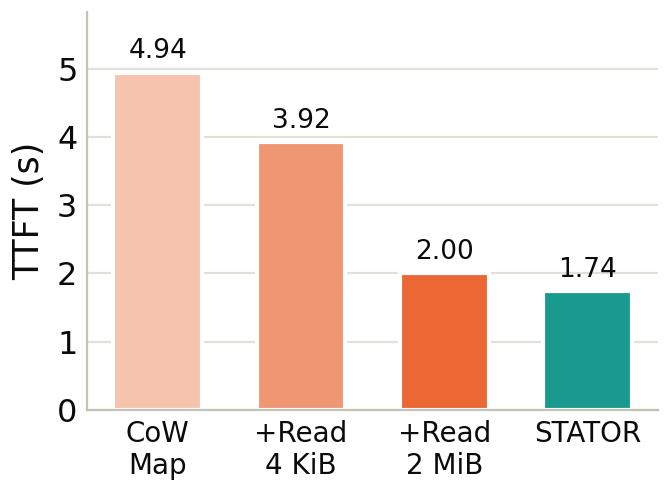
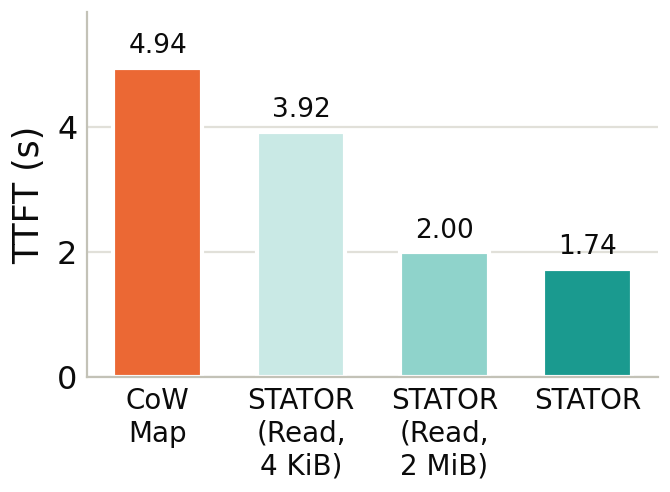
Copy-on-write figure as an ablation of STATOR
The baseline bar is the mapping as the kernel provides it; the bars with the
CPU read pass are labelled STATOR (Read, page size) in tints of its colour.

diff --git a/figures/make_paper_figures.py b/figures/make_paper_figures.py
@@ -39,6 +39,7 @@ DEMAND_LIGHT = "#b9cfe9"
 DEVICE_LIGHT = "#c9bdf0"   # violet (DEVICE) is the third entry
 COPY_LIGHT = "#b7b5af"
 COPY_PALE = "#d9d7d1"
+OURS_PALE = "#c9e9e5"    # teal (OURS, OURS_LIGHT): a second part left out
 # Text sizes in points on a canvas that the paper places at 0.48 of its size
 # (a quarter of the page or half a column), so that all panels print alike.
 # A legend that two panels share is a strip above them (legend()).
@@ -285,10 +286,13 @@ def mode():
 def cow():
     data = {(r["mode"], int(r["agents"])): r
             for r in rows("20261006-engine-kvcow-v1", "engine_kvcow_summary.csv")}
-    # the mapping as the kernel provides it, then with the CPU read pass added
-    # on each page size (darker as the baseline is tuned), then the extents
-    order = (("CoW\nMap", "cow_noread", "#f6c3ad"), ("+Read\n4 KiB", "cow_small", "#f09672"),
-             ("+Read\n2 MiB", "cow", COW), (NAME, "extent_lazy", OURS))
+    # an ablation: the baseline is the mapping as the kernel provides it; the
+    # next two bars add the CPU read pass of STATOR on each page size and keep
+    # the writable private mapping (tints of STATOR: a part left out); the
+    # last bar is STATOR with its extents
+    order = (("CoW\nMap", "cow_noread", COW),
+             (NAME + "\n(Read,\n4 KiB)", "cow_small", OURS_PALE),
+             (NAME + "\n(Read,\n2 MiB)", "cow", OURS_LIGHT), (NAME, "extent_lazy", OURS))
     for name, column, ylabel, scale, form in (
             ("eval_cow_mem", "memory_mib", "Memory (GiB)", 1024.0, "{:.1f}"),
             ("eval_cow_time", "first_token_ms", "TTFT (s)", 1000.0, "{:.2f}")):
